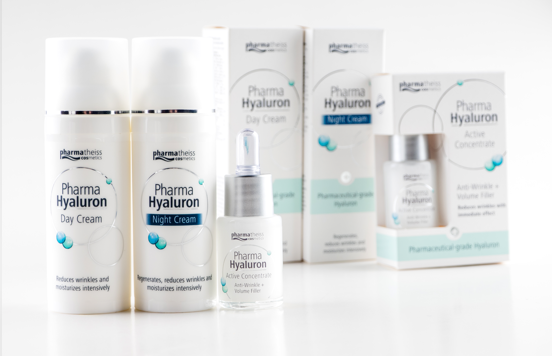
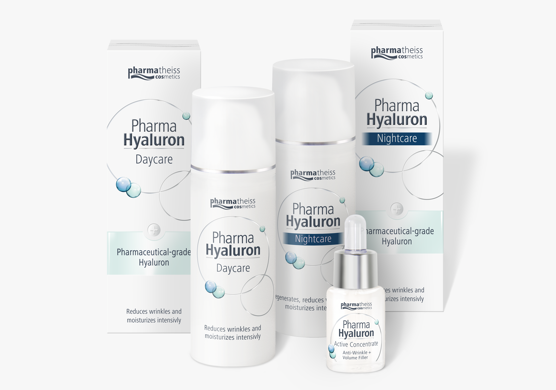
img2

diff --git a/app/complex_two.html b/app/complex_two.html
@@ -72,9 +72,9 @@
         <div class="row">
             <div class="col-sm-12 col-md-7 padding-right-fix">
                 <div class="owl-carousel" id="product_slider">
-                    <div class="item"><img src="img/complex/1/slider/1.png" alt=""></div>
-                    <div class="item"><img src="img/complex/1/slider/2.png" alt=""></div>
-                    <div class="item"><img src="img/complex/1/slider/3.png" alt=""></div>
+                    <div class="item"><img src="img/complex/2/slider/1.png" alt=""></div>
+                    <div class="item"><img src="img/complex/2/slider/2.png" alt=""></div>
+                    <div class="item"><img src="img/complex/2/slider/3.png" alt=""></div>
                 </div>
                 <!--<h3 class="item_price">750 грн</h3>-->
             </div>
@@ -109,7 +109,7 @@
                 </div>
             </div>
             <div class="col-xs-12 col-sm-6 col-md-6 col-lg-2" style="min-height: 2px">
-                <div class="parallax_object5" data-scroll-speed="5"><img src="img/complex/1/img1.png" alt=""></div>
+                <div class="parallax_object5" data-scroll-speed="5"><img src="img/complex/2/img2.png" alt=""></div>
             </div>
         </div>
     </div>
@@ -497,7 +497,7 @@
     <div class="row">
         <div class="col-xs-12">
             <ul class="menu_list">
-                <li><a href="index.html" class="smooth">Головна</a></li>
+                <li><a href="index.html" class="">Головна</a></li>
                 <li><a href="#fourth" class="smooth">Дія продуктів</a></li>
                 <li><a href="#third" class="smooth">Ефективність</a></li>
                 <li><a href="#fifth" class="smooth">Популярні запитання</a></li>

diff --git a/app/complex_three.html b/app/complex_three.html
@@ -72,9 +72,9 @@
         <div class="row">
             <div class="col-sm-12 col-md-7 padding-right-fix">
                 <div class="owl-carousel" id="product_slider">
-                    <div class="item"><img src="img/complex/1/slider/1.png" alt=""></div>
-                    <div class="item"><img src="img/complex/1/slider/2.png" alt=""></div>
-                    <div class="item"><img src="img/complex/1/slider/3.png" alt=""></div>
+                    <div class="item"><img src="img/complex/3/slider/1.png" alt=""></div>
+                    <div class="item"><img src="img/complex/3/slider/2.png" alt=""></div>
+                    <div class="item"><img src="img/complex/3/slider/3.png" alt=""></div>
                 </div>
                 <!--<h3 class="item_price">750 грн</h3>-->
             </div>
@@ -108,7 +108,7 @@
                 </div>
             </div>
             <div class="col-xs-12 col-sm-6 col-md-6 col-lg-2" style="min-height: 2px">
-                <div class="parallax_object5" data-scroll-speed="5"><img src="img/complex/1/img1.png" alt=""></div>
+                <div class="parallax_object5" data-scroll-speed="5"><img src="img/complex/3/img3.png" alt=""></div>
             </div>
         </div>
     </div>
@@ -496,7 +496,6 @@
     <div class="row">
         <div class="col-xs-12">
             <ul class="menu_list">
-                <li><a href="index.html" class="smooth">Головна</a></li>
                 <li><a href="#fourth" class="smooth">Дія продуктів</a></li>
                 <li><a href="#third" class="smooth">Ефективність</a></li>
                 <li><a href="#fifth" class="smooth">Популярні запитання</a></li>

diff --git a/app/complex_one.html b/app/complex_one.html
@@ -498,7 +498,7 @@
     <div class="row">
         <div class="col-xs-12">
             <ul class="menu_list">
-                <li><a href="index.html" class="smooth">Головна</a></li>
+                <li><a href="index.html" class="">Головна</a></li>
                 <li><a href="#fourth" class="smooth">Дія продуктів</a></li>
                 <li><a href="#third" class="smooth">Ефективність</a></li>
                 <li><a href="#fifth" class="smooth">Популярні запитання</a></li>
